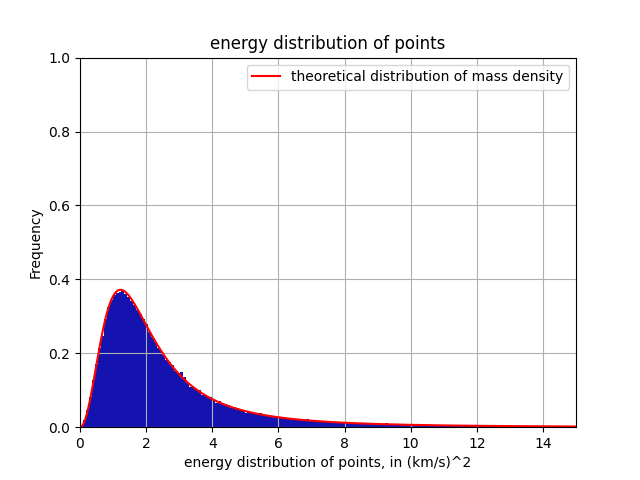
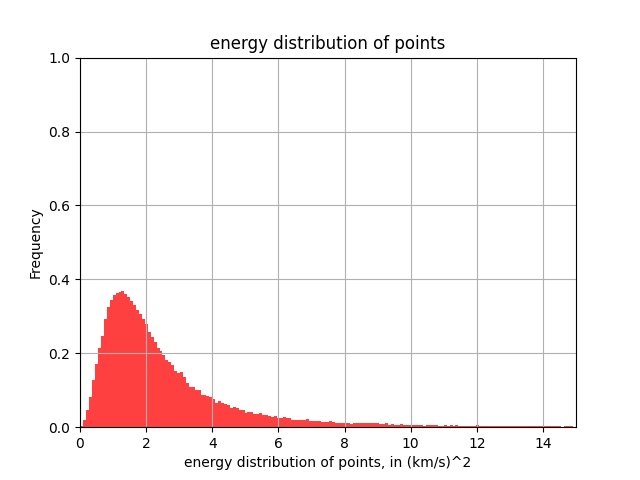
modified:   energy_distr.png 	modified:   mass_distr.png 	modified:   plot.py

Changed region(s): [[0.125, 0.5938, 0.9062, 0.9062], [0.375, 0.125, 0.875, 0.1875]]

diff --git a/Assignment2/plot.py b/Assignment2/plot.py
@@ -7,27 +7,29 @@ filename = "1a.dat"
 x = np.loadtxt(filename, usecols = (1), skiprows=1)
 x2 = np.linspace(0, 17, 100000)
 rho = 3.0/(4.0*math.pi)*1.5**(-3)*(1+(x2/1.5)**2)**(-5.0/2.0)*4*math.pi*x2**2 # since mass density, treat total mass as 1
-n, bins, patches = plt.hist(x, bins='auto', density=True, color='#0504aa', alpha=0.75)
-plt.plot(x2, rho, 'r', label = 'theoretical distribution of mass density')
-plt.legend()
-plt.xlabel('radial distance from the origin, kparsec')
-plt.ylabel('Frequency')
-plt.title('mass density distribution of the radial distance')
-plt.grid(True)
-plt.xlim(0, 15.0)
-plt.ylim(0, 1.0)
-plt.savefig("mass_distr.png")
+fig1, ax1 = plt.subplots()
+n, bins, patches = ax1.hist(x, bins='auto', density=True, color='#0504aa', alpha=0.75)
+ax1.plot(x2, rho, 'r', label = 'theoretical distribution of mass density')
+ax1.legend()
+ax1.set_xlabel('radial distance from the origin, kparsec')
+ax1.set_ylabel('Frequency')
+ax1.set_title('mass density distribution of the radial distance')
+ax1.grid(True)
+ax1.set_xlim(0, 15.0)
+ax1.set_ylim(0, 1.0)
+fig1.savefig("mass_distr.png")
 
 E = np.loadtxt(filename, usecols = (9), skiprows=1)
-n, bins, patches = plt.hist(x, bins='auto', density=True, color='#0504aa', alpha=0.75)
-# plt.plot(x2, rho, 'r', label = 'theoretical distribution of mass density')
-# plt.legend()
-plt.xlabel('energy distribution of points, in (km/s)^2')
-plt.ylabel('Frequency')
-plt.title('energy distribution of points')
-plt.grid(True)
-plt.xlim(0, 15.0)
-plt.ylim(0, 1.0)
-plt.savefig("energy_distr.png")
+fig2, ax2 = plt.subplots()
+n, bins, patches = ax2.hist(E, bins='auto', density=True, color='red', alpha=0.75)
+# ax2.plot(x2, rho, 'r', label = 'theoretical distribution of mass density')
+# ax2.legend()
+ax2.set_xlabel('energy distribution of points, in (km/s)^2')
+ax2.set_ylabel('Frequency')
+ax2.set_title('energy distribution of points')
+ax2.grid(True)
+ax2.set_xlim(0, 15.0)
+ax2.set_ylim(0, 1.0)
+fig2.savefig("energy_distr.png")
 
 
